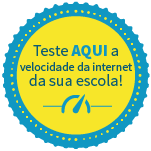
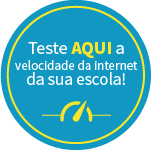
change position of badge dia da conectividade

diff --git a/app/assets/stylesheets/application.scss b/app/assets/stylesheets/application.scss
@@ -61,7 +61,8 @@ $slick-dot-size: $h4;
   line-height: 0;
   margin-left: 15px;
 }
-.badge { transform: rotate(15deg); }
+.badge { margin: 0 0 0 5.5em; }
+.badge img { height: 110%; }
 .popup-header { height: 3.3rem; }
 .popup-header img { width: 5rem; }
 .rounded { border-radius: 2rem; }
